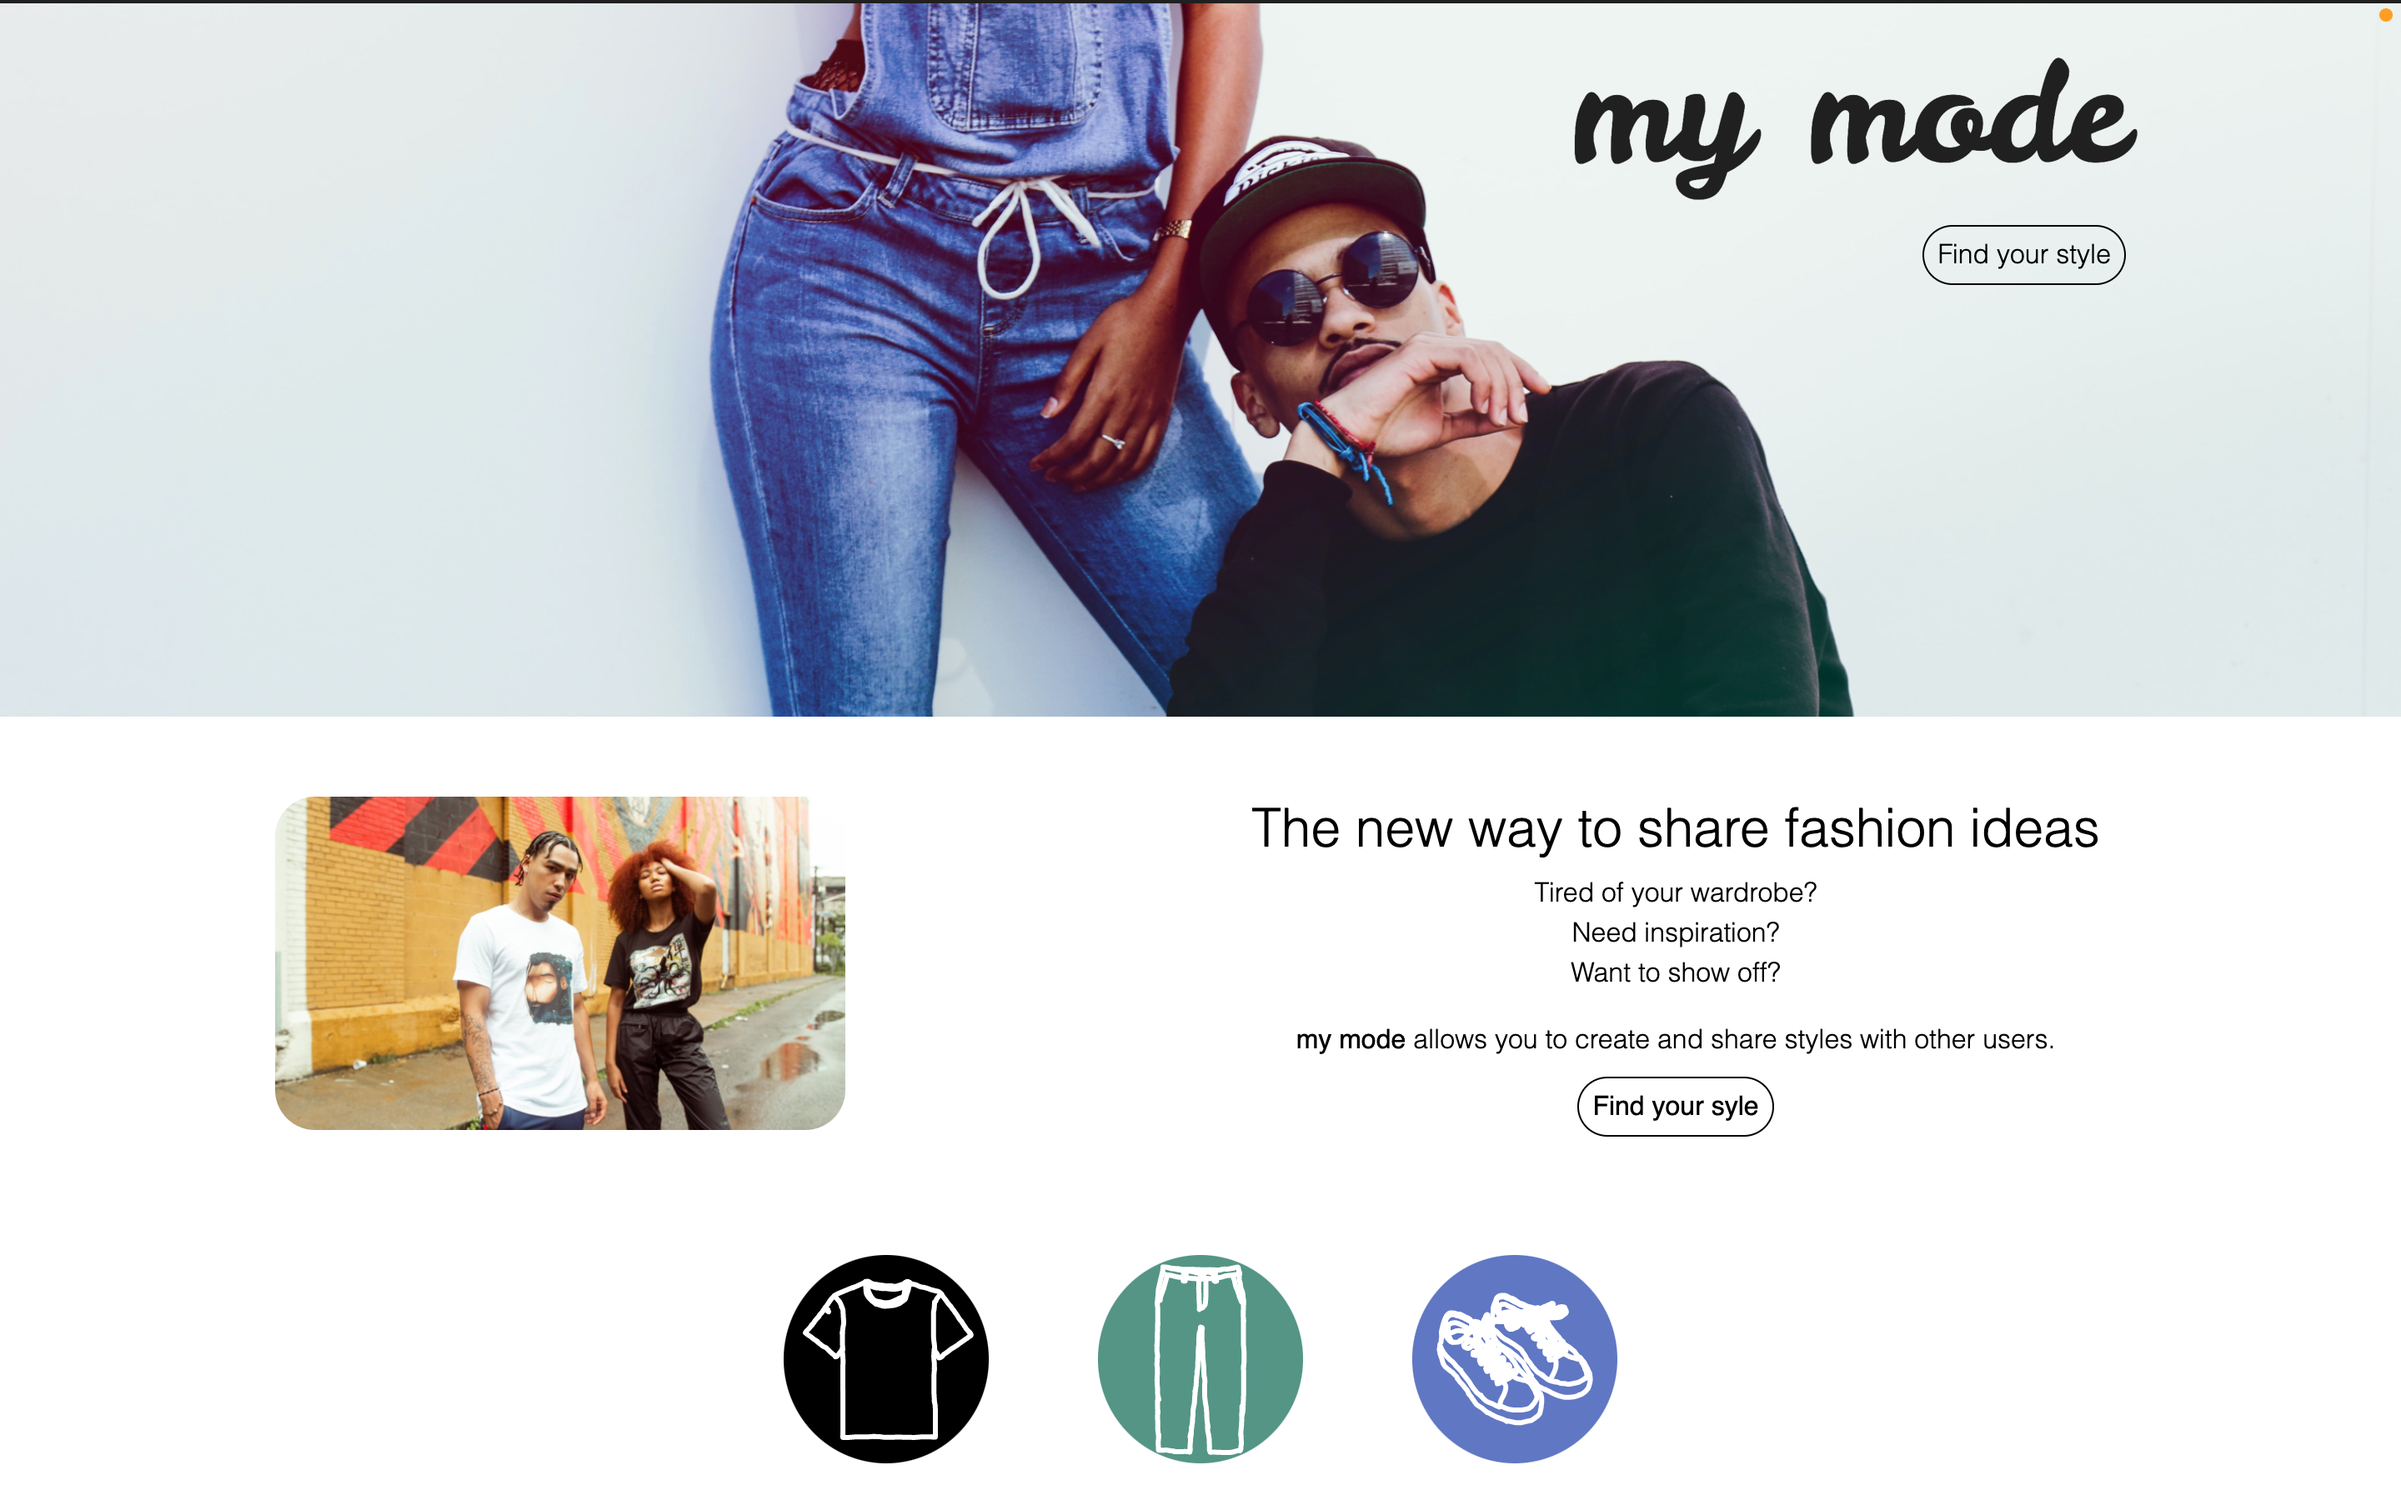
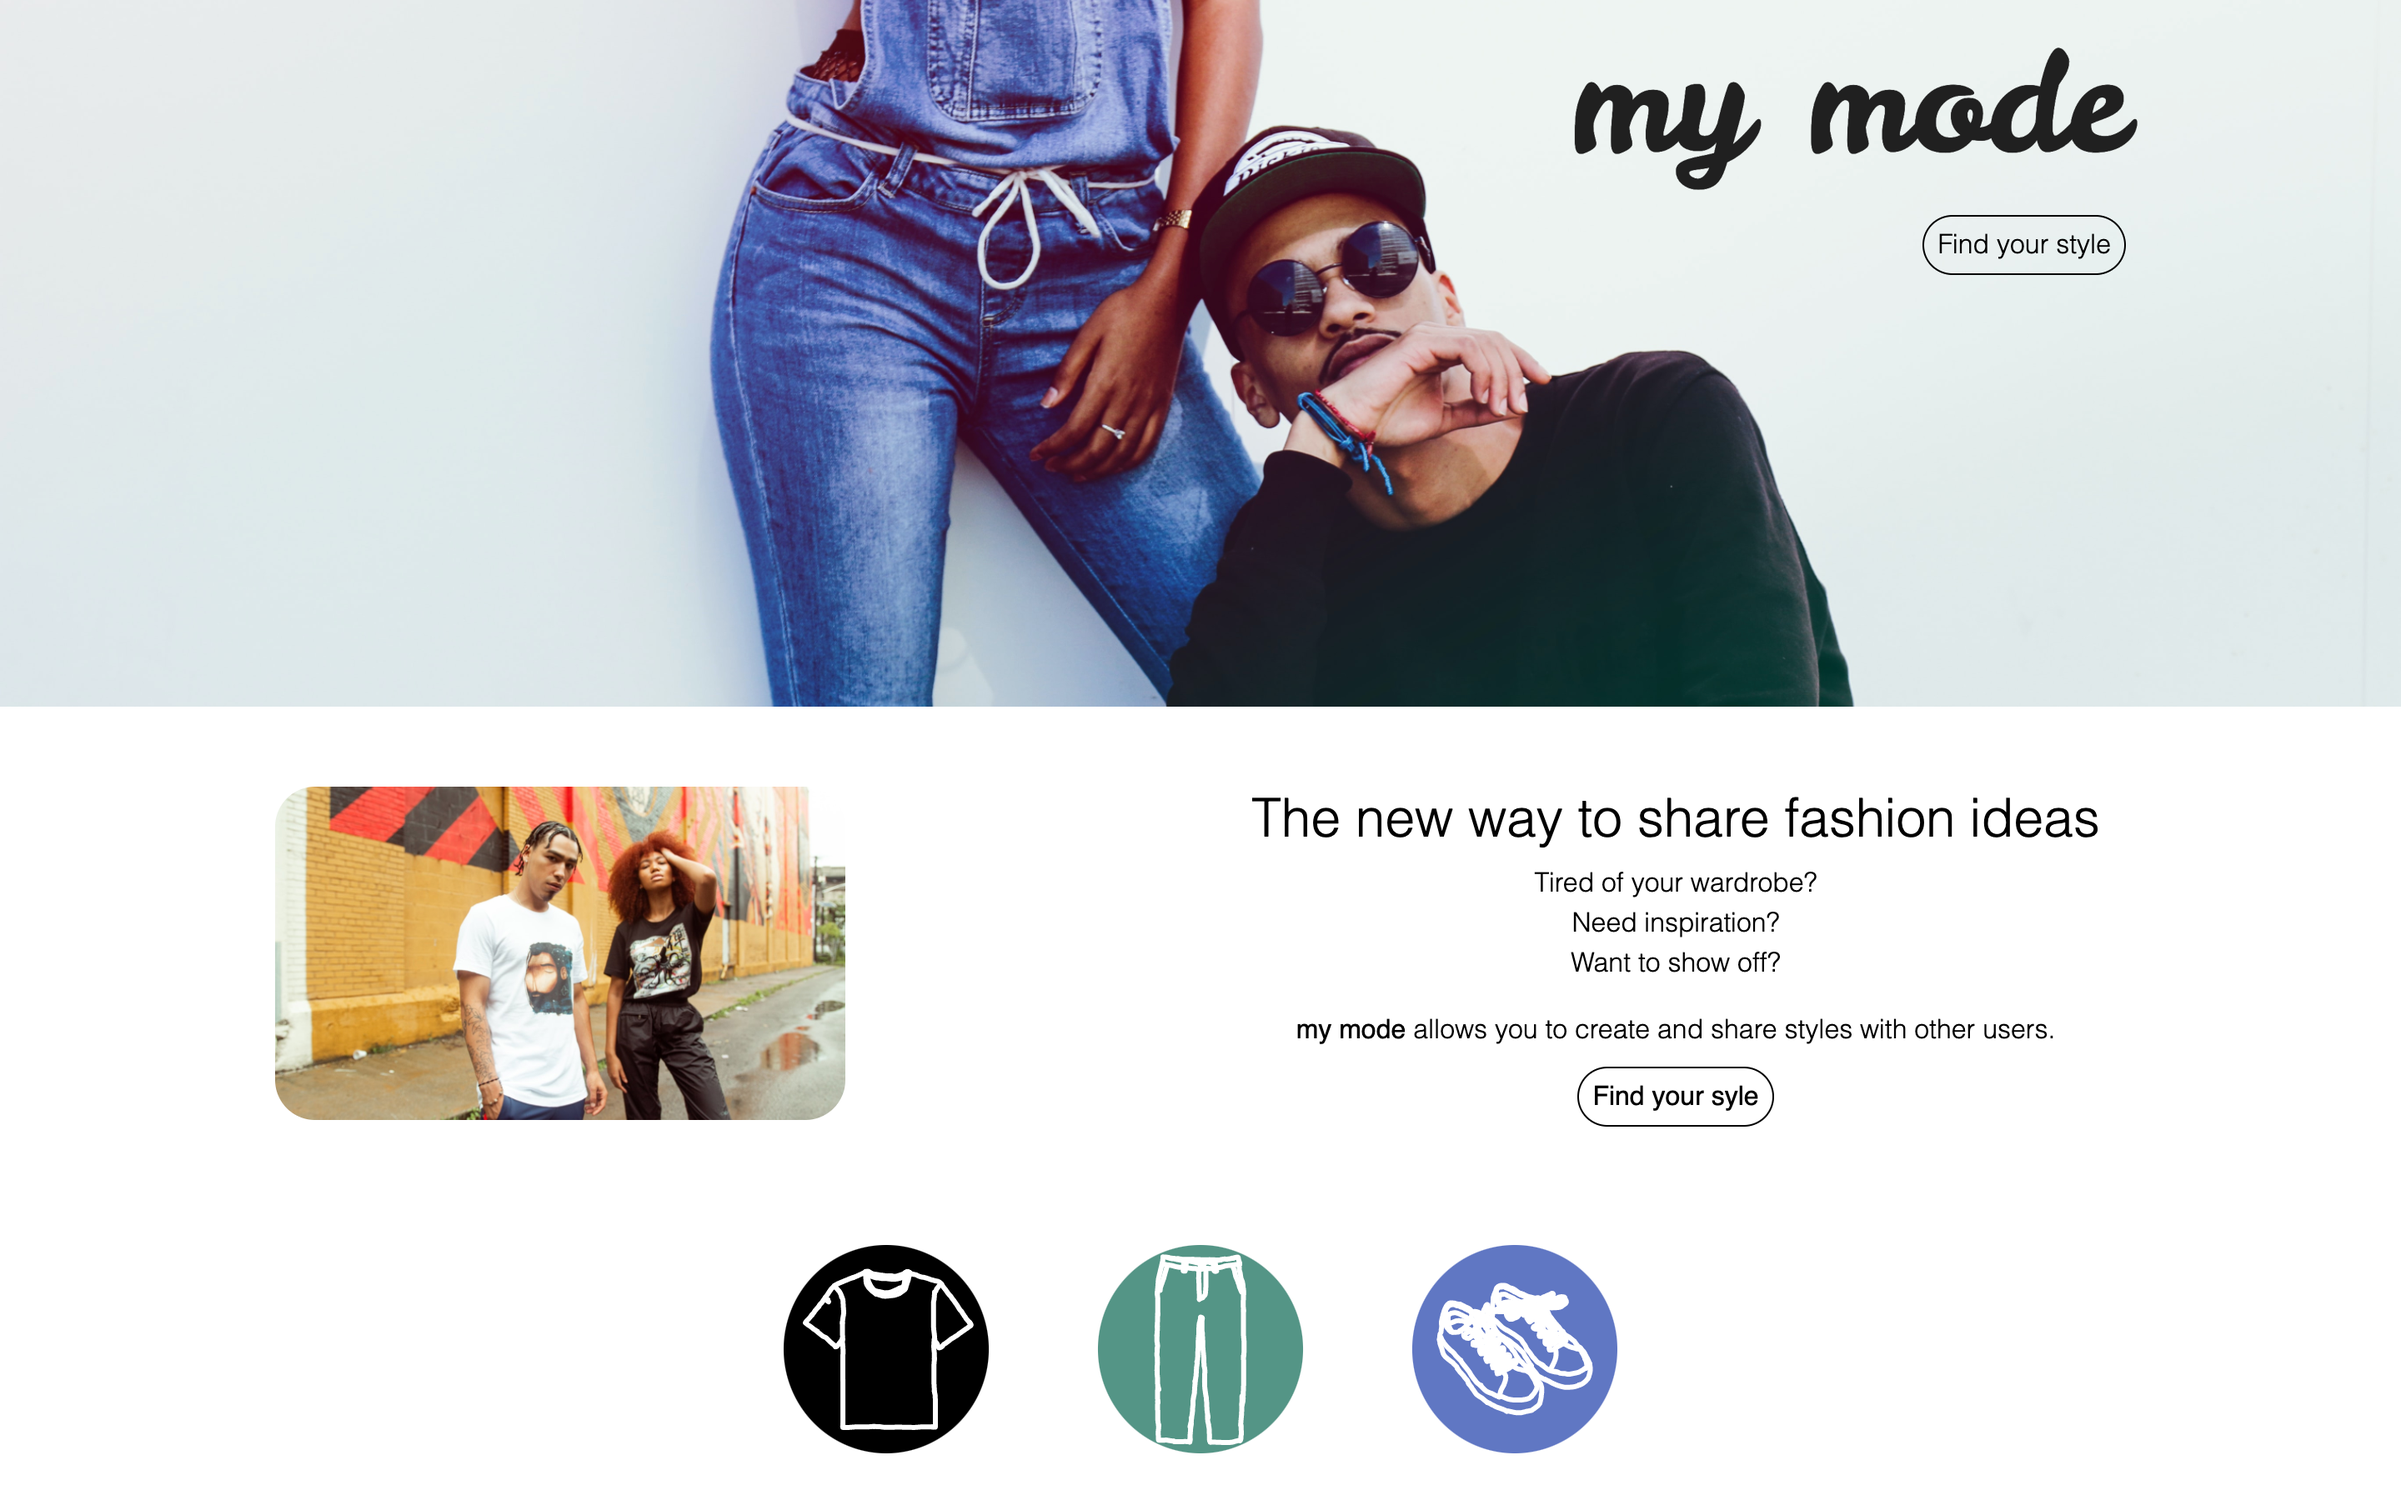
Added images to the projects

diff --git a/app/assets/stylesheets/application.scss b/app/assets/stylesheets/application.scss
@@ -21,6 +21,11 @@
 }
 
 
+.container-page {
+  width: 77vw;
+  margin:auto;
+}
+
 html {
   scroll-behavior: smooth;
 }
@@ -80,6 +85,7 @@ a.middle:before {
 }
 
 
+
 .flx-container {
   display: flex;
   margin: auto;
@@ -89,7 +95,7 @@ a.middle:before {
 }
 
  h1 {
-  font-size: 14em;
+  font-size: 6em;
   text-align: center;
 }
 
@@ -128,7 +134,9 @@ a.active {
   border-bottom: 1px solid black;
 }
 
-
+.project-section {
+  margin-bottom: 10px;
+}
 
 .nav-transparent {
   display: flex;
@@ -144,10 +152,21 @@ a.active {
 }
 
 // Small devices (landscape phones, 576px and up)
-@media (min-width: 576px) {
+@media (max-width: 576px) {
 
+  .header {
+    text-align: center;
+  }
 
+  .section {
+    display: flex;
+    flex-direction: column;
+    text-align: center;
+  }
 
+  .project-image {
+    width: 90%;
+  }
  }
 
 // Medium devices (tablets, 768px and up)

diff --git a/app/assets/stylesheets/components/_image.scss b/app/assets/stylesheets/components/_image.scss
@@ -1,4 +1,11 @@
 .project-image {
 	width: 50%;
+	border-radius: 16px;
 	height: auto;
+	margin-top: 24px;
+	margin-bottom: 24px;
+}
+
+.project-image:hover {
+	opacity: 0.5;
 }
